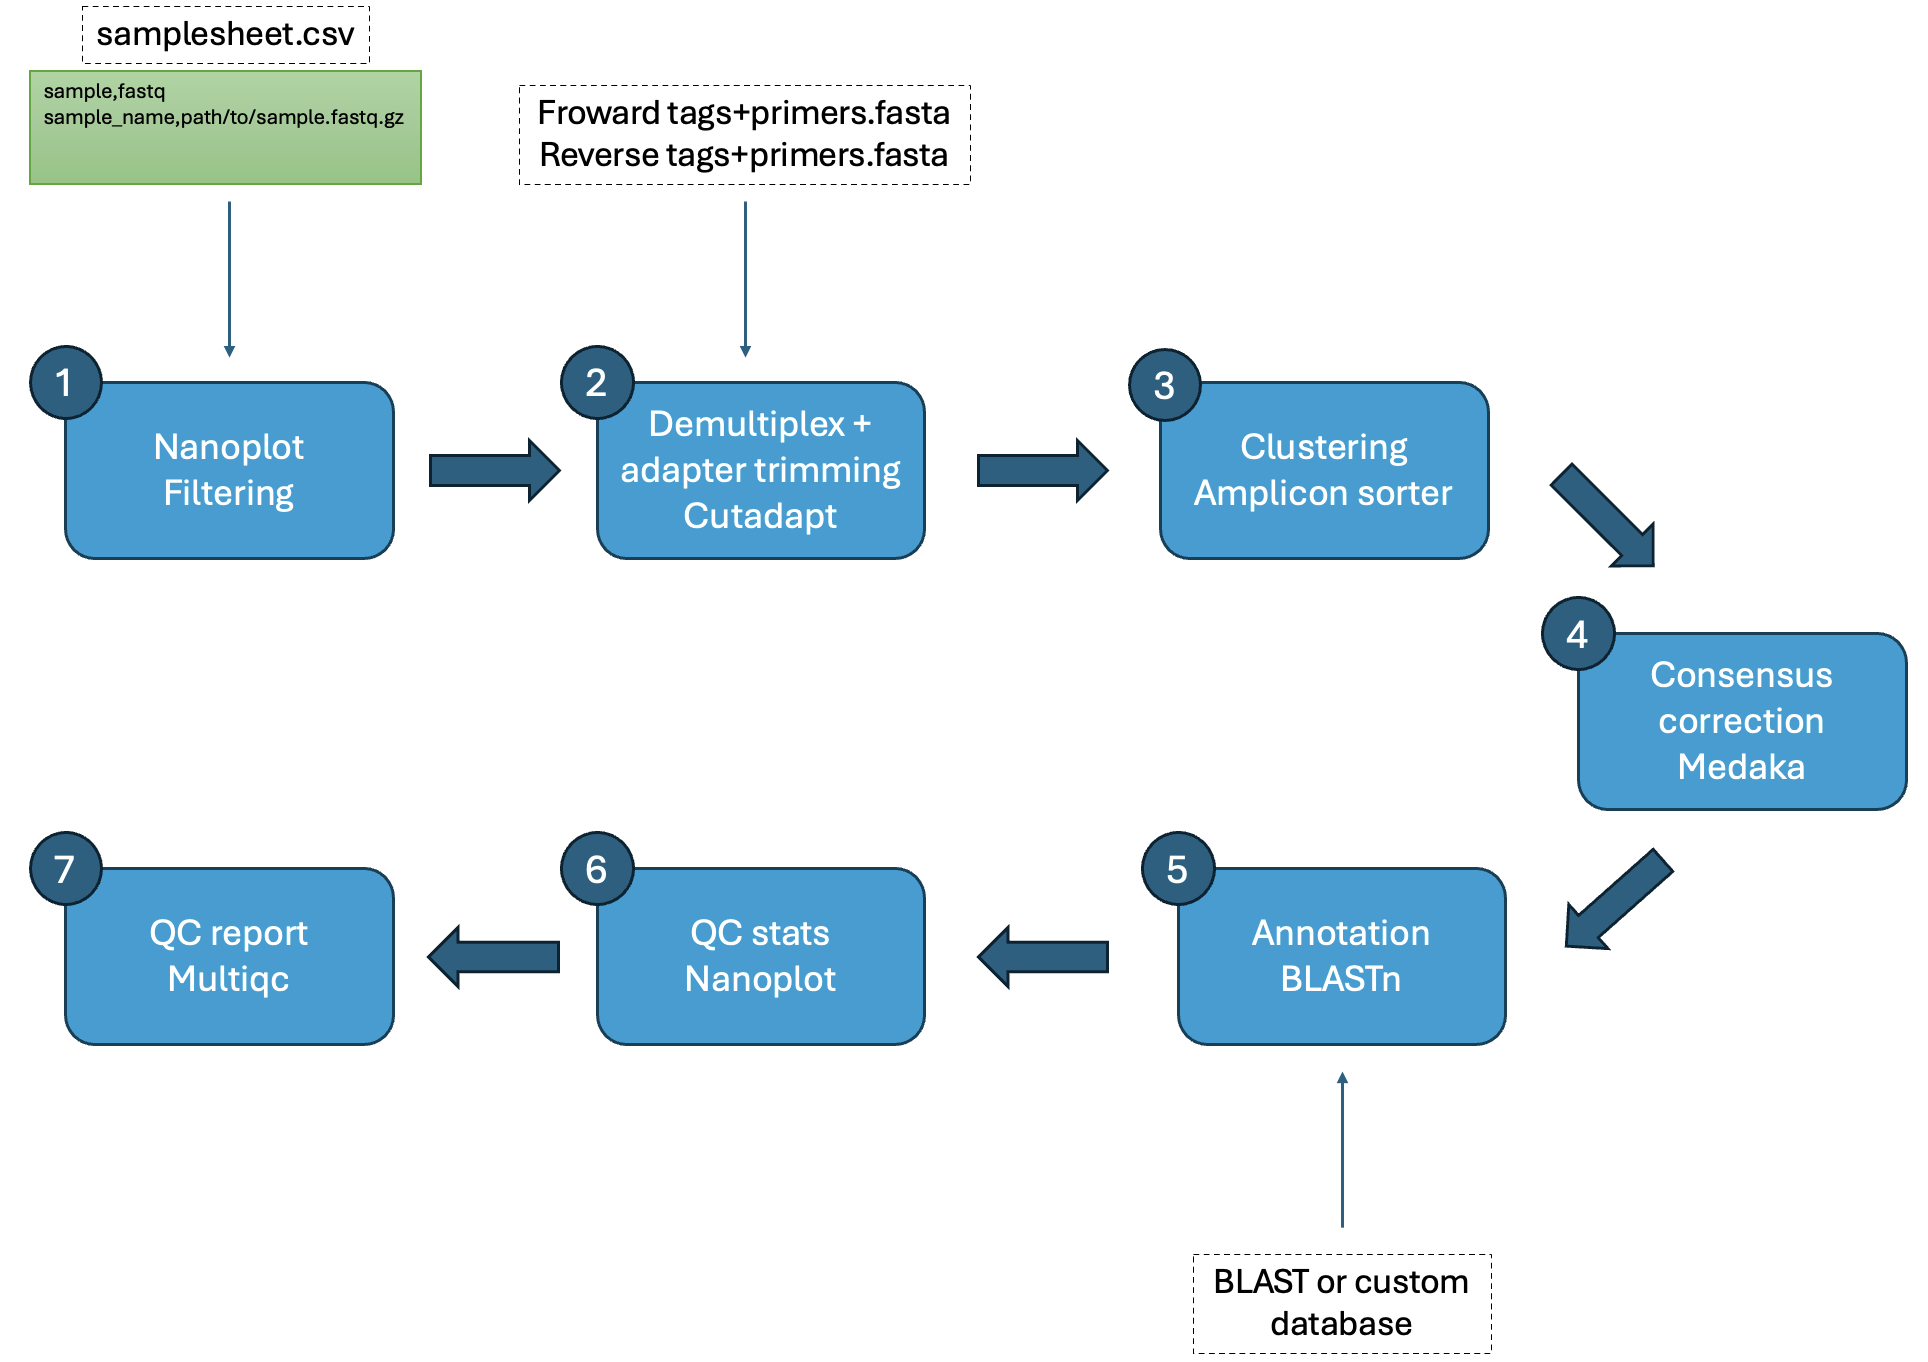
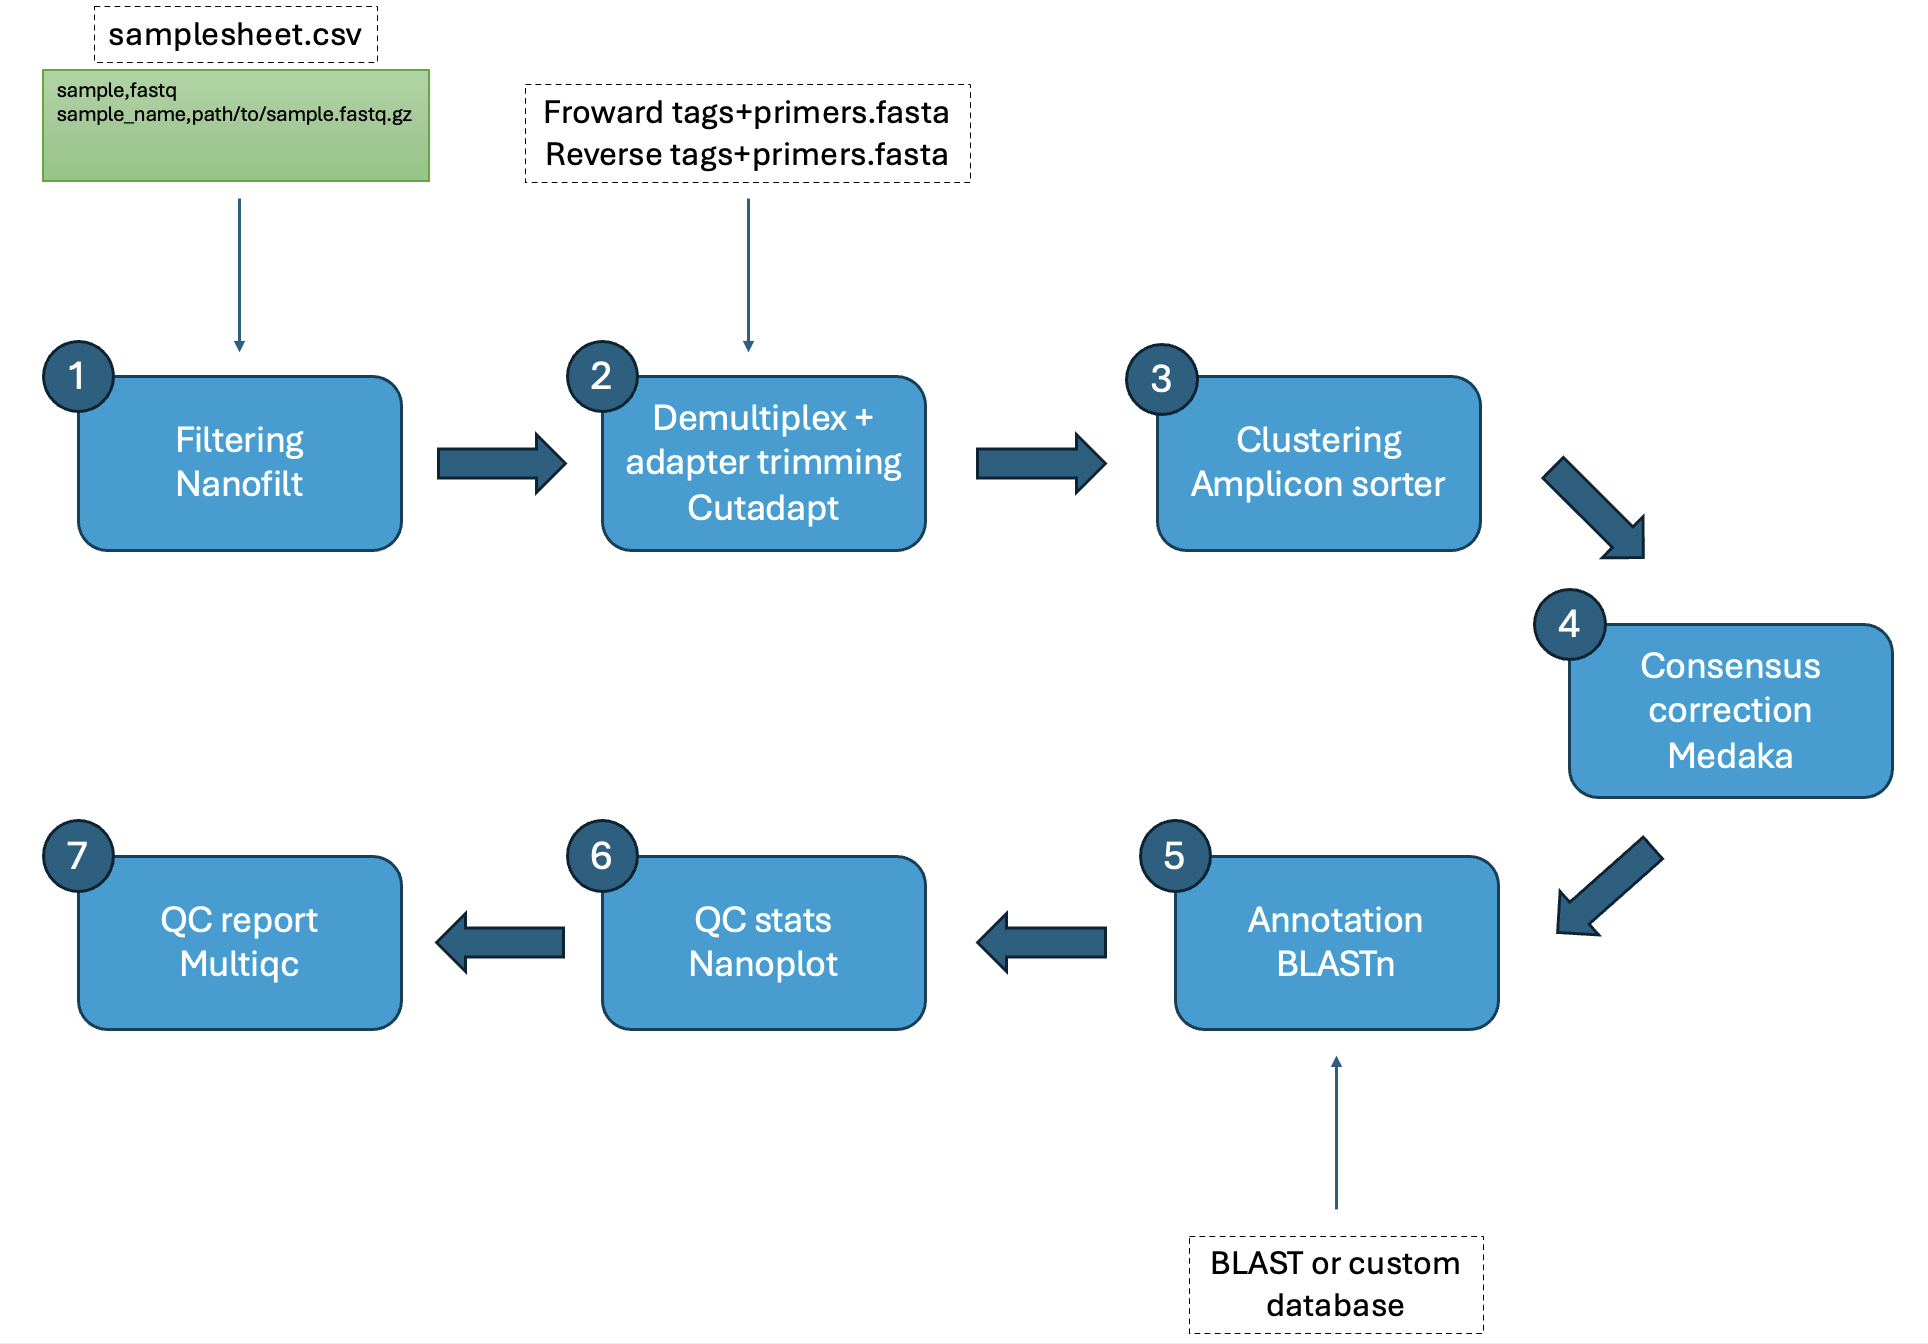
Updated README.md

diff --git a/README.md b/README.md
@@ -57,11 +57,27 @@ Steps:
 > [!NOTE]
 > If you are new to Nextflow and nf-core, please refer to [this page](https://nf-co.re/docs/usage/installation) on how to set-up Nextflow. Make sure to [test your setup](https://nf-co.re/docs/usage/introduction#how-to-run-a-pipeline) with `-profile test` before running the workflow on actual data.
 
+To use this pipeline, first clone this repo:
+
+```
+git clone https://github.com/Eco-Flow/nanoporemetabarcoding.git
+```
+
+Before running on your data, you can test if the pipeline is suited to your setup by running:
+
+```bash
+nextflow run main.nf \
+   -profile <docker/singularity/conda/.../institute> \
+   --outdir <OUTDIR>
+```
+
+The running time should be around 8 minutes on a machine with 12 cpus/threads.
+
 <!-- TODO nf-core: Describe the minimum required steps to execute the pipeline, e.g. how to prepare samplesheets.
      Explain what rows and columns represent. For instance (please edit as appropriate):
 -->
 
-First, prepare a samplesheet with your input data that looks as follows:
+For running the pipleine on your data, prepare a samplesheet with your input that looks as follows:
 
 `samplesheet.csv`:
 
@@ -78,7 +94,7 @@ Now, you can run the pipeline using:
 <!-- TODO nf-core: update the following command to include all required parameters for a minimal example -->
 
 ```bash
-nextflow run nf-core/nanoporemetabarcoding \
+nextflow run main.nf \
    -profile <docker/singularity/.../institute> \
    --input samplesheet.csv \
    --outdir <OUTDIR>
@@ -106,10 +122,11 @@ Check the config file `nextflow.config` in the params block and fill parameters 
 ```
 
 **Blast options:**
+
 ```
-    // Path to built blast database
+    // Path to already built database
     blast_db                   = null
-    // Path to custom databse to be built
+    // Path to database to be built
     custom_db                  = '/path/to/custom/databse.fasta'
     // Output format of blast results
     outfmt                     = 6
@@ -123,6 +140,8 @@ Check the config file `nextflow.config` in the params block and fill parameters 
     qcov_hsp_perc              = 90
 ```
 
+You should supply either the path to the alraedy built database or provide a custom fasta with sequences to built a custom one. If both are supplied the pipeline will fail.
+
 **Nanofilt options:**
 ```
     // Nanofilt options
@@ -133,12 +152,12 @@ Check the config file `nextflow.config` in the params block and fill parameters 
 Alternatively, you can provide/modify pipeline options calling them as command line arguments. For example:
 
 ```bash
-nextflow run nf-core/nanoporemetabarcoding \
+nextflow run main.nf \
    -profile <docker/singularity/.../institute> \
    --input samplesheet.csv \
    --outdir <OUTDIR>
    --nano_quality 10
-   --evalue e-10
+   --evalue 1e-10
    --tags_f path/to/forward/tags+primers.fasta
    --tags_r path/to/reverse/tags+primers.fasta
 ```
